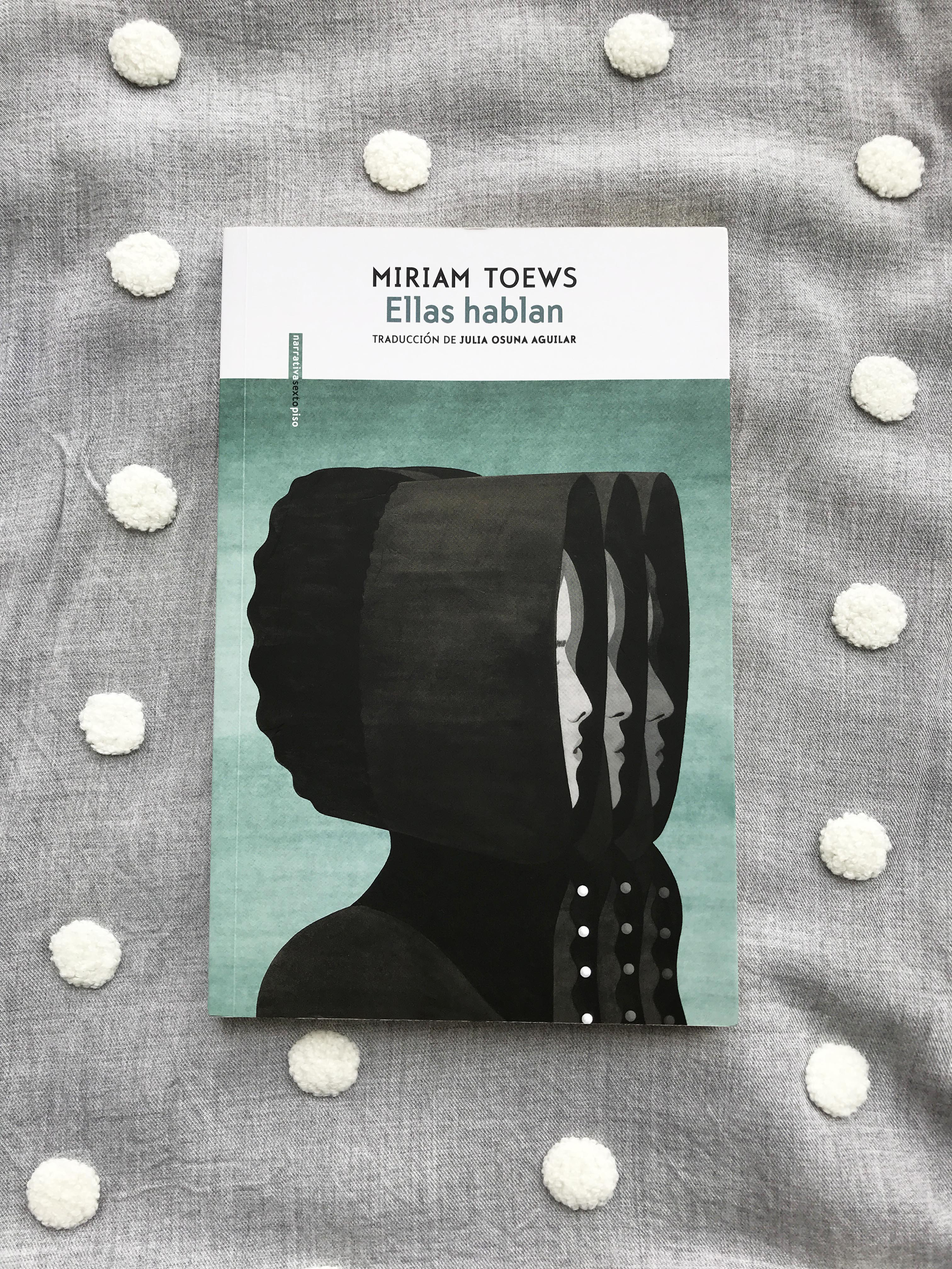
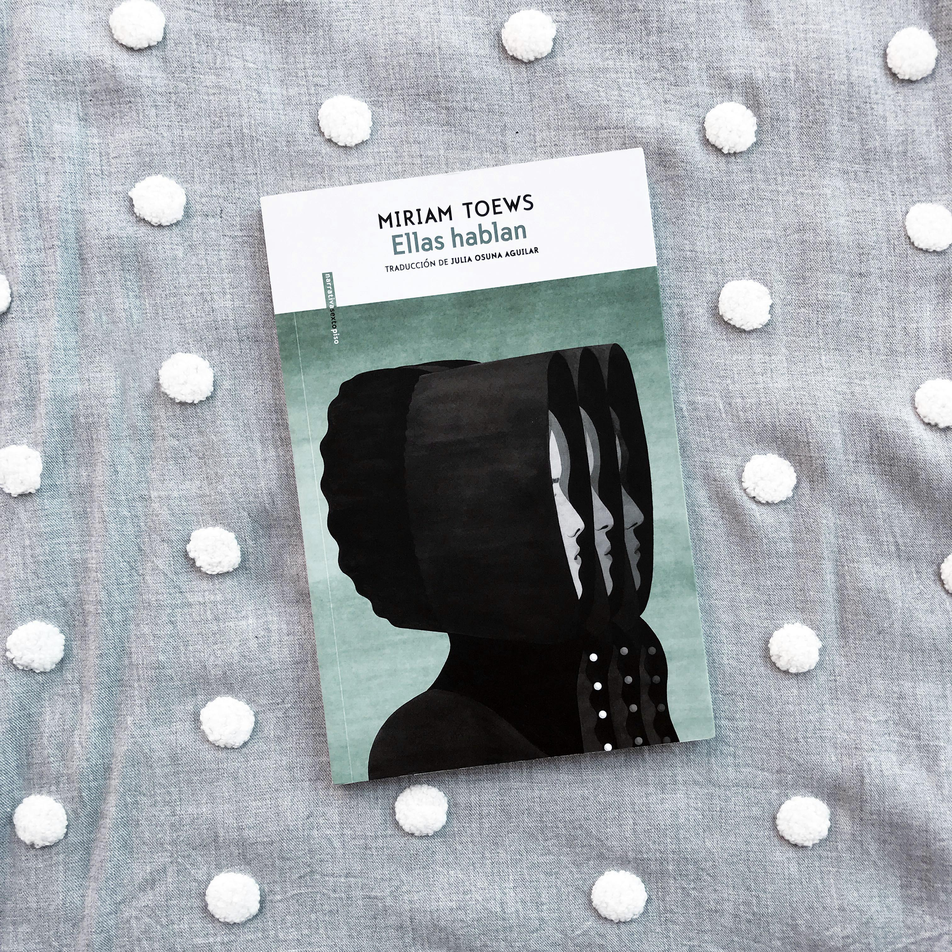
Add new posts

diff --git a/content/blog/pura-pasion/index.md b/content/blog/pura-pasion/index.md
@@ -1,0 +1,20 @@
+---
+title: Pura pasión
+date: "2020-08-30"
+author: "Annie Ernaux"
+description: Más que “Pura pasión”, este libro podría llamarse “Pura obsesión”. La novela, breve y concisa, narra los pensamientos de una mujer -la autora-, cuyo eje central es, ni más ni menos que su amante.
+cover: './pura-pasion-annie-ernaux.jpg'
+---
+
+Más que “Pura pasión”, este libro podría llamarse “Pura obsesión”.
+La novela, breve y concisa, narra los pensamientos de una mujer -la autora-, cuyo eje central es, ni más ni menos que su amante.
+
+La historia va pasando de una preocupación a otra. No hay más temática que abarcar. Lo único que habita en su cabeza, al igual que en sus páginas escritas, es él: el señor A.
+Cual adolescente, la vida de Annie se centra en pensarlo, en imaginarlo, en recordarlo y en desearlo. Y cuando llega el momento de tenerlo y tocarlo, nuevamente se centra en el ciclo: en que todo va a volver a empezar otra vez. La angustia.
+
+Hay reflexiones, puestas por escrito, que te hacen dudar de la cordura de la escritora. Piensas que está remotamente loca, aunque hay otros momentos en los que te dices, muy por dentro: “Puedo entenderla. Incluso sentirla. El amor nos vuelve imprudentes”.
+
+Es el primer libro que leo de Annie Ernaux y no ha acabado de llegarme. Admito que tiene una escritura inteligente y que su don es el de la expresión, de eso no cabe duda.
+Por eso he separado la voz y la historia; una me ha encantado, la otra me ha cansado. Porque, aunque el amor da para mucho, ha habido momentos en los que me ha aburrido esa obcecación tan desmesurada. A lo mejor si me hubiera pillado en un momento diferente de mi vida, hubiera experimentado la novela de otra forma.
+
+Qué poco romántica soy a veces. O a lo mejor es que eso no es amor.
